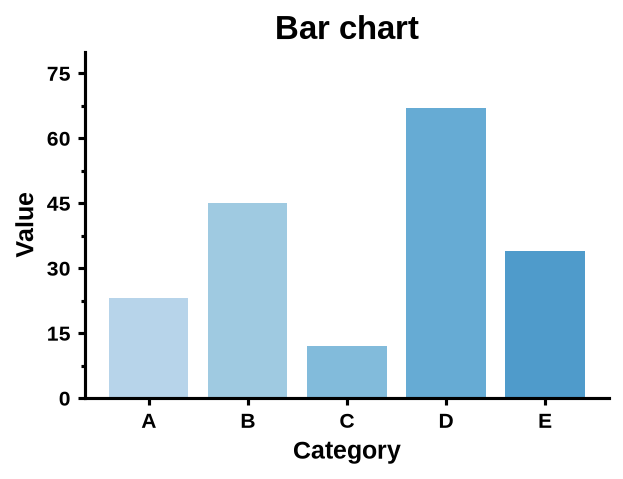
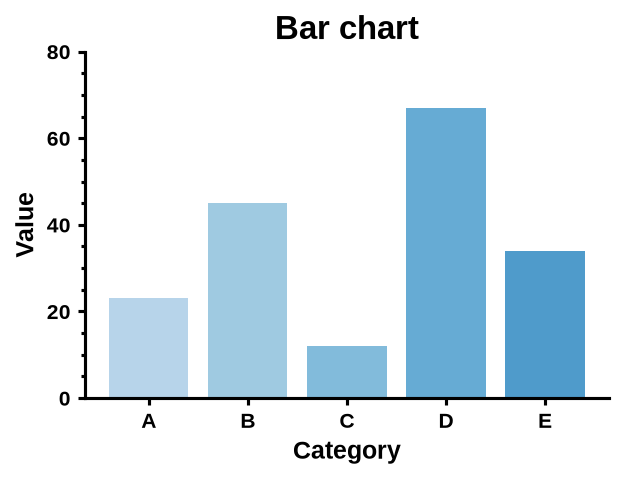
Round tick steps, minor ticks on round values, font.family, Matplotlib>=3.8
auto_ticks
- Major ticks use steps of 1, 2, 2.5 or 5 x 10^k, the steps of Matplotlib's
  default AutoLocator. MaxNLocator's own default also allowed 1.5, 3, 4, 6
  and 8, giving ticks such as 0, 1.5, 3.0.
- With these steps every branch of the minor-tick rule is reachable (before,
  axes almost always had 6-7 major ticks). The rule now counts visible major
  ticks and swaps quarters and fifths where needed so minor ticks land on
  round values: every 1 (not 1.25) between 0 and 5, every 0.5 (not 0.4)
  between 0 and 2.

Style
- Set font.family: sans-serif, so a matplotlibrc that picks another family
  no longer overrides the style's Arial fallback chain.

Supported versions
- Require matplotlib>=3.8. The style sets mathtext.bfit, which Matplotlib
  3.7 rejects as a bad key; the full suite passes on 3.8.0, 3.9.4 and 3.11.
- Tests import RcKeyType (Matplotlib 3.10+) only for type checking, so they
  run on older versions.
- New CI job runs the tests on Python 3.12 with Matplotlib 3.8.0 and
  NumPy 1.x.

Examples: let auto_ticks pick the y-limits in the sine/cosine example (the
old +-1.2 limits fit the old 0.4 step), move the error-bar legend off the
data, and re-render the four images auto_ticks affects.

Claude-Session: https://claude.ai/code/session_013QDvcicsDiezNU8QwTpfMg

diff --git a/src/mplplots/utils.py b/src/mplplots/utils.py
@@ -1,10 +1,12 @@
 """Utility functions for mplplots."""
 
+import math
 import os
 from collections.abc import Callable, MutableMapping
 
 import matplotlib.font_manager as fm
 import matplotlib.text as mtext
+import numpy as np
 from matplotlib import ticker
 from matplotlib.axes import Axes
 from matplotlib.axis import Axis
@@ -76,10 +78,12 @@ def auto_ticks(
 
     How each axis is handled depends on its data and scale:
 
-    - **Linear numeric axes** get about six major ticks on round values and minor ticks
-      between them: 1 per interval with six or more major ticks, 3 with five, and 4 with
-      four or fewer. Each limit left unset moves out to a major tick, so the axis starts
-      and ends on a labelled tick. Inverted axes stay inverted.
+    - **Linear numeric axes** get about six major ticks, spaced 1, 2, 2.5 or 5 times a
+      power of 10. Minor ticks split each major interval into halves with six or more
+      visible major ticks, quarters with five (fifths if the spacing is 2.5 or 5, so minor
+      ticks stay on round values), and fifths with four or fewer. Each limit left unset
+      moves out to a major tick, so the axis starts and ends on a labelled tick. Inverted
+      axes stay inverted.
     - **Categorical axes** (string data, as in ``ax.bar(["A", "B"], ...)``) keep one tick
       per category and lose their minor ticks.
     - **Other axes** (log and other non-linear scales, dates, other units) keep
@@ -102,6 +106,10 @@ def auto_ticks(
     _auto_axis_ticks(ax.xaxis, ax.set_xlim, left, right)
     _auto_axis_ticks(ax.yaxis, ax.set_ylim, bottom, top)
 
+
+# Major tick spacings, times a power of 10. These are the steps of Matplotlib's default
+# AutoLocator; MaxNLocator's own default also allows 1.5, 3, 4, 6 and 8 (ticks like 0, 1.5, 3).
+_MAJOR_STEPS = (1, 2, 2.5, 5, 10)
 
 # Snapping a limit out to a tick can make MaxNLocator pick a larger step, which moves the
 # outermost ticks again. Each round only widens the range, so this settles within a few rounds.
@@ -132,7 +140,7 @@ def _auto_axis_ticks(
     if converter is not None or axis.get_scale() != "linear":
         return
 
-    axis.set_major_locator(ticker.MaxNLocator(nbins=6, min_n_ticks=3))
+    axis.set_major_locator(ticker.MaxNLocator(nbins=6, steps=_MAJOR_STEPS, min_n_ticks=3))
     for _ in range(_MAX_SNAP_ROUNDS):
         # Ticks are ascending; on an inverted axis the start edge holds the larger value.
         ticks = axis.get_majorticklocs()
@@ -145,9 +153,34 @@ def _auto_axis_ticks(
             break
         set_lim(new_start, new_end)
 
-    n_major = len(axis.get_majorticklocs())
-    n_divisions = 2 if n_major >= 6 else 4 if n_major == 5 else 5
-    axis.set_minor_locator(ticker.AutoMinorLocator(n_divisions))
+    axis.set_minor_locator(ticker.AutoMinorLocator(_minor_divisions(axis)))
+
+
+def _minor_divisions(axis: Axis) -> int:
+    """Return how many parts minor ticks split each major interval into.
+
+    Fewer visible major ticks get more minor ticks: halves with six or more, quarters with
+    five, and fifths with four or fewer. Quarters and fifths are swapped where needed so that
+    minor ticks land on round values: a major spacing of 2.5 or 5 (times a power of 10) is
+    split into fifths (every 1, not 1.25, between 0 and 5) and a spacing of 2 into quarters
+    (every 0.5, not 0.4, between 0 and 2).
+    """
+    low, high = sorted(axis.get_view_interval())
+    ticks = np.asarray(axis.get_majorticklocs())
+    tol = 1e-9 * (high - low)
+    n_visible = int(np.count_nonzero((ticks >= low - tol) & (ticks <= high + tol)))
+    if n_visible >= 6:
+        return 2
+    preferred = 4 if n_visible == 5 else 5
+    if len(ticks) < 2:
+        return preferred
+    step = float(ticks[1] - ticks[0])
+    mantissa = step / 10 ** math.floor(math.log10(step))
+    if any(math.isclose(mantissa, m, rel_tol=1e-6) for m in (2.5, 5)):
+        return 5
+    if math.isclose(mantissa, 2, rel_tol=1e-6):
+        return 4
+    return preferred
 
 
 def _get_converter(axis: Axis) -> object:

diff --git a/tests/test_utils.py b/tests/test_utils.py
@@ -1,8 +1,11 @@
 """Tests for mplplots.utils."""
 
+from __future__ import annotations
+
 import uuid
 from collections.abc import Callable, Iterator
 from pathlib import Path
+from typing import TYPE_CHECKING
 
 import matplotlib
 import matplotlib.font_manager as fm
@@ -14,10 +17,12 @@ from fontTools.ttLib import TTFont
 from matplotlib import ticker
 from matplotlib.font_manager import FontProperties
 from matplotlib.text import Text
-from matplotlib.typing import RcKeyType
 
 import mplplots
 from mplplots.utils import _clear_font_caches, add_custom_fonts, auto_ticks
+
+if TYPE_CHECKING:
+    from matplotlib.typing import RcKeyType  # Matplotlib 3.10+
 
 STYLE_PATH = str(mplplots.STYLE_PATH)
 MPL_TTF_DIR = Path(matplotlib.get_data_path()) / "fonts" / "ttf"
@@ -39,6 +44,12 @@ def _ends_on_ticks(ticks: npt.ArrayLike, limits: tuple[float, float]) -> bool:
     ticks = np.asarray(ticks)
     visible = ticks[(ticks >= low - tol) & (ticks <= high + tol)]
     return bool(abs(visible[0] - low) <= tol and abs(visible[-1] - high) <= tol)
+
+
+def _is_round_step(step: float) -> bool:
+    """Whether a tick spacing is 1, 2, 2.5 or 5 times a power of 10."""
+    mantissa = step / 10 ** np.floor(np.log10(step))
+    return any(np.isclose(mantissa, m) for m in (1, 2, 2.5, 5, 10))
 
 
 @pytest.mark.filterwarnings("error::UserWarning")
@@ -66,14 +77,29 @@ class TestAutoTicks:
         assert ax.get_ylim()[0] == 0
         assert _ends_on_ticks(ax.get_yticks(), ax.get_ylim())
 
-    def test_six_major_ticks_get_one_minor_tick_between(self) -> None:
+    @pytest.mark.parametrize(
+        ("right", "visible_major", "divisions"),
+        [
+            (10, [0, 2, 4, 6, 8, 10], 2),  # six or more: halves
+            (4, [0, 1, 2, 3, 4], 4),  # five: quarters
+            (20, [0, 5, 10, 15, 20], 5),  # five spaced 5: fifths (every 1, not 1.25)
+            (12.4, [0, 2.5, 5, 7.5, 10], 5),  # five spaced 2.5: fifths (every 0.5)
+            (3.5, [0, 1, 2, 3], 5),  # four or fewer: fifths
+            (17, [0, 5, 10, 15], 5),  # four or fewer spaced 5: fifths
+            (7, [0, 2, 4, 6], 4),  # four or fewer spaced 2: quarters (every 0.5, not 0.4)
+        ],
+    )
+    def test_minor_divisions(
+        self, right: float, visible_major: list[float], divisions: int
+    ) -> None:
         _, ax = plt.subplots()
-        ax.plot([0, 10], [0, 10])
-        auto_ticks(ax, left=0, right=10)
-        assert list(ax.get_xticks()) == [0, 2, 4, 6, 8, 10]
+        ax.plot([0, right], [0, 1])
+        auto_ticks(ax, left=0, right=right)
+        visible = [tick for tick in ax.get_xticks() if 0 <= tick <= right]
+        assert visible == pytest.approx(visible_major)
         minor = ax.xaxis.get_minor_locator()
         assert isinstance(minor, ticker.AutoMinorLocator)
-        assert minor.ndivs == 2
+        assert minor.ndivs == divisions
 
     @pytest.mark.parametrize("style", ["default", STYLE_PATH])
     def test_unset_limits_end_on_ticks(self, style: str) -> None:
@@ -92,9 +118,10 @@ class TestAutoTicks:
                     (ax.get_yticks(), ax.get_ylim()),
                 ):
                     assert _ends_on_ticks(ticks, limits), (low, high, limits, ticks)
+                    assert _is_round_step(ticks[1] - ticks[0]), ticks
                 plt.close(fig)
 
-    @pytest.mark.parametrize("data", [(8.725, 482.271), (27.392, 27.616), (-91.805, -91.793)])
+    @pytest.mark.parametrize("data", [(-40.367, 10.776), (69.954, 70.886), (-4.063, -4.009)])
     def test_snap_settles_when_step_grows(self, data: tuple[float, float]) -> None:
         # Data ranges where a single snap left the axis ending between ticks.
         with plt.style.context("default"):

diff --git a/tests/test_styles.py b/tests/test_styles.py
@@ -1,19 +1,24 @@
 """Tests for mplplots styles."""
 
+from __future__ import annotations
+
 import json
 import os
 import re
 import subprocess
 import sys
+from typing import TYPE_CHECKING
 
 import matplotlib
 import matplotlib.colors as mcolors
 import matplotlib.font_manager as fm
 import matplotlib.pyplot as plt
 from matplotlib.font_manager import FontProperties
-from matplotlib.typing import RcKeyType
 
 import mplplots
+
+if TYPE_CHECKING:
+    from matplotlib.typing import RcKeyType  # Matplotlib 3.10+
 
 STYLE_PATH = mplplots.STYLE_PATH
 GRAPHPAD_STYLE = str(STYLE_PATH)
@@ -117,6 +122,14 @@ class TestGraphPadPrismFonts:
         with plt.style.context(GRAPHPAD_STYLE):
             assert matplotlib.rcParams["font.sans-serif"][0] == "Arial"
             assert matplotlib.rcParams["mathtext.fontset"] == "custom"
+
+    def test_overrides_font_family_from_rc(self) -> None:
+        # A matplotlibrc (or an earlier style) may pick another family; the style still
+        # uses its sans-serif list.
+        with plt.rc_context({"font.family": ["serif"]}), plt.style.context(GRAPHPAD_STYLE):
+            assert matplotlib.rcParams["font.family"] == ["sans-serif"]
+            font = fm.get_font(fm.findfont(FontProperties()))
+            assert font.family_name in matplotlib.rcParams["font.sans-serif"]
 
     def test_sans_serif_always_resolves(self) -> None:
         with plt.style.context(GRAPHPAD_STYLE):

diff --git a/examples/styles_demo.py b/examples/styles_demo.py
@@ -32,7 +32,7 @@ with plt.style.context(STYLE):
     fig, ax = plt.subplots()
     ax.plot(x, np.sin(x), color=BLUES[4], linewidth=2, label="sin(x)")
     ax.plot(x, np.cos(x), color=REDS[4], linewidth=2, label="cos(x)")
-    auto_ticks(ax, left=0, right=10, bottom=-1.2, top=1.2)
+    auto_ticks(ax, left=0, right=10)
     ax.set_title("GraphPadPrism + auto_ticks")
     ax.set_xlabel("x")
     ax.set_ylabel("y")
@@ -120,7 +120,7 @@ with plt.style.context(STYLE):
     ax.set_xlabel("X measure")
     ax.set_ylabel("Y measure")
     ax.set_title("CORAL palette — error bars")
-    ax.legend(fontsize=7)
+    ax.legend(fontsize=7, loc="lower right")
     fig.savefig(f"{OUT}/graphpadprism_errorbar.png", dpi=150, bbox_inches="tight")
     plt.close(fig)
 

diff --git a/README.md b/README.md
@@ -20,8 +20,7 @@ palettes, and a few helpers for publication-quality scientific figures.
 pip install git+https://github.com/FridrichMethod/mplplots.git
 ```
 
-mplplots is not on PyPI. It needs Python 3.12 or newer. Loading the style by package name (below)
-needs Matplotlib 3.7 or newer.
+mplplots is not on PyPI. It needs Python 3.12 or newer and Matplotlib 3.8 or newer.
 
 ## Quick start
 
@@ -41,7 +40,7 @@ ax.plot(x, np.cos(x), color=REDS[4], label="cos(x)")
 ax.set_xlabel("x")
 ax.set_ylabel("y")
 ax.legend()
-auto_ticks(ax, left=0, right=10, bottom=-1.2, top=1.2)
+auto_ticks(ax, left=0, right=10)
 fig.savefig("figure.png")
 ```
 
@@ -120,8 +119,10 @@ For every setting, see the [style file](src/mplplots/styles/GraphPadPrism.mplsty
 The style asks for Arial, which is GraphPad Prism's default font. If Arial is not installed (common
 on Linux and HPC clusters), it falls back without warnings to Helvetica or an Arial-compatible
 clone (Liberation Sans, Arimo, Nimbus Sans), and finally to DejaVu Sans, which ships with
-Matplotlib. Math text follows the same chain. For the exact Prism look, install Arial, or register
-the font files at the start of your script or notebook, before plotting:
+Matplotlib. Math text follows the same chain. The style also sets `font.family` to `sans-serif`, so
+it uses this list even if your `matplotlibrc` picks another font family. For the exact Prism look,
+install Arial, or register the font files at the start of your script or notebook, before
+plotting:
 
 ```python
 from mplplots.utils import add_custom_fonts
@@ -243,9 +244,11 @@ auto_ticks(ax, bottom=0)  # call after plotting; keep the y-axis starting at 0
 `auto_ticks(ax, left=..., right=..., bottom=..., top=...)` gives both axes Prism-like ticks. On a
 linear axis of numbers:
 
-- **Major ticks:** about six, on round values.
-- **Minor ticks:** the number of subdivisions depends on the major tick count. Six or more major
-  ticks get 1 minor tick between them, five get 3, and four or fewer get 4.
+- **Major ticks:** about six, spaced 1, 2, 2.5, or 5 times a power of 10 (the same spacings as
+  Matplotlib's default ticks).
+- **Minor ticks:** fewer major ticks get more minor ticks. Six or more visible major ticks get 1
+  minor tick halfway between. Five or fewer get 3 or 4, whichever keeps them on round values:
+  every 1 between 0 and 5, every 0.5 between 0 and 2, every 0.25 or 0.2 between 0 and 1.
 - **Limits:** any limit you leave unset moves out to a major tick, so each axis starts and ends on
   a labelled tick. Pass `left`, `right`, `bottom`, or `top` to keep that limit fixed, for example
   `bottom=0` for bar charts. Inverted axes stay inverted. The limits mean the same as in
@@ -340,7 +343,8 @@ pytest
 ```
 
 Both checks must pass before you commit. CI runs them on Python 3.12 and 3.13 for pushes and pull
-requests to `main`. Agent and contributor conventions are in [`AGENTS.md`](AGENTS.md).
+requests to `main`, and runs the tests once more against the oldest supported versions (Python
+3.12 with Matplotlib 3.8.0). Agent and contributor conventions are in [`AGENTS.md`](AGENTS.md).
 
 ## License
 
